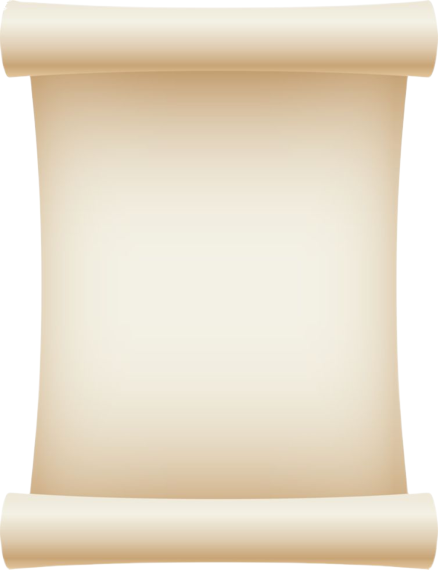
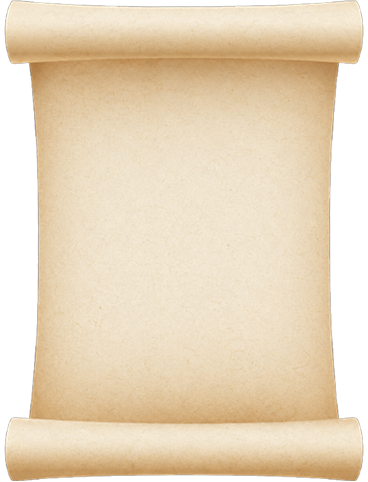
refactor: implement nine-slice resizing for parchment sheet to preserve roll proportions at varying heights

diff --git a/challange-5/Packages/Kultara/Sources/DesignSystem/QuestScroll.swift b/challange-5/Packages/Kultara/Sources/DesignSystem/QuestScroll.swift
@@ -12,9 +12,9 @@ import SwiftUI
 /// real place with real distances, so it is content with a citation (`PlaceSiteMap`), not chrome.
 public enum HisploraScrollArt {
 
-    /// The parchment sheet, `447:1886` — 368 × 478 as drawn, with a rolled bar top and bottom and a
-    /// smooth cream field between them.
-    public static let sheet = PackagedImage(name: "quest-parchment", aspectRatio: 368.0 / 478.0)
+    /// The parchment sheet, `447:1886` — 368 × 482, with a rolled bar top and bottom and a plain
+    /// tan field between them.
+    public static let sheet = PackagedImage(name: "quest-parchment", aspectRatio: 368.0 / 482.0)
 
     /// The flourish `447:1887` rules under the place name — 263 × 9.08, drawn at 4× so it stays crisp
     /// on a 3× screen.
@@ -274,7 +274,7 @@ public struct PackagedImage: Sendable {
 /// The sheet is the *background* of the printed matter rather than a fixed-size image with content
 /// laid over it, which is the same decision `PhotoQuestCard` records: a background cannot make its
 /// parent smaller, so at the largest accessibility sizes the sheet grows to fit the words instead of
-/// the words spilling off the paper (`NFR-A11Y-01`). Reproduced the other way round — a 368 × 478
+/// the words spilling off the paper (`NFR-A11Y-01`). Reproduced the other way round — a 368 × 482
 /// image with an overlay — the instruction runs off the lower roll at the second size above default.
 ///
 /// When the packaged art is missing the sheet falls back to a plain cream panel. A missing decoration
@@ -293,7 +293,7 @@ public struct HisploraParchmentSheet<Content: View>: View {
         content
             .frame(maxWidth: .infinity)
             // The rolled bars at the head and foot are art, not margin: printing into them puts the
-            // first line across a curl. 78 and 74 of the drawn 478, plus the sheet's own 44-point
+            // first line across a curl. 64 and 64 of the drawn 482, plus the sheet's own clear
             // interior margin.
             .padding(.top, HisploraParchmentMetrics.interiorTop)
             .padding(.bottom, HisploraParchmentMetrics.interiorBottom)
@@ -304,9 +304,14 @@ public struct HisploraParchmentSheet<Content: View>: View {
     @ViewBuilder private var sheet: some View {
         if let image = HisploraScrollArt.sheet.image {
             image
-                .resizable()
-                // The rolls have to stay the shape they are drawn; the field between them is a flat
-                // gradient and stretching it is invisible.
+                // **Nine-slice, not a plain stretch, and this was a visible bug.** A plain
+                // `.resizable()` scales the whole picture to the content's height — so a task with a
+                // text field, which is a good deal taller than the art's own 482, drew the head roll
+                // at two and a half times the size it is painted and pushed the foot roll off the
+                // screen with the skip printed across it. The caps hold both rolls at the height they
+                // are drawn whatever the sheet grows to; the field between them is a flat grain and
+                // stretching *that* is invisible.
+                .resizable(capInsets: HisploraParchmentMetrics.rollCaps, resizingMode: .stretch)
                 .accessibilityHidden(true)
         } else {
             RoundedRectangle(cornerRadius: KultaraMetrics.sm)
@@ -316,15 +321,44 @@ public struct HisploraParchmentSheet<Content: View>: View {
     }
 }
 
-/// `447:1886`'s own proportions, in its own 368 × 478 terms.
+/// `447:1886`'s own proportions, in its own 368 × 482 terms.
+///
+/// **These are measured off `quest-parchment.png`'s own alpha, not read off the frame**, the same way
+/// `HisploraMapScrollMetrics` measures the map scroll's rods. A row-by-row scan of the 368 × 482 file
+/// puts the head roll at y 0…63 and the foot roll at 418…482 — the rows whose coverage is the rolls'
+/// full width before the paper's narrower field starts — and the field between them narrows to
+/// x 39…329 at its waist, because the rolls are painted wider than the sheet they hold and the
+/// sheet's sides bow inward.
+///
+/// Replacing the art means re-running that scan. The rolls are held at these heights by
+/// `rollCaps` regardless of how tall the sheet grows, so a cap that does not match the picture cuts
+/// a roll in half rather than merely mis-margining the text.
 public enum HisploraParchmentMetrics {
-    /// The sheet's head roll runs to y ≈ 78 of 478, and `447:1906` prints the place name at 107 —
-    /// which on a sheet starting at 190 is 29 points of clear paper under the roll.
-    public static let interiorTop: CGFloat = 107
-    /// The foot roll starts at y ≈ 404 of 478, and the drawn content ends well above it.
-    public static let interiorBottom: CGFloat = 96
-    /// `447:1895` runs x = 65…336 on a sheet spanning 17…385, so 48 in on each side.
-    public static let interiorSide: CGFloat = 48
+    /// The two rolls, at the height they are painted. Leading and trailing are zero: the sheet is
+    /// drawn within a few points of the art's own 368 wide, so the horizontal stretch is invisible,
+    /// and a horizontal cap would pin the rolls' rounded ends against a field that no longer met
+    /// them.
+    public static let rollCaps = EdgeInsets(top: rollHeadHeight,
+                                            leading: 0,
+                                            bottom: rollFootHeight,
+                                            trailing: 0)
+
+    /// The head roll runs y 0…63 of the art's own 482.
+    public static let rollHeadHeight: CGFloat = 64
+    /// The foot roll starts at y 418, so it is the same 64 deep.
+    public static let rollFootHeight: CGFloat = 64
+
+    /// Clear paper under the head roll before the place name starts — `447:1906`'s 29, rounded to
+    /// the 30 the new art's softer roll edge wants.
+    public static let interiorTop: CGFloat = rollHeadHeight + 24
+    /// The same, above the foot roll. Slightly tighter than the head because the foot carries a
+    /// control rather than a masthead.
+    public static let interiorBottom: CGFloat = rollFootHeight + 20
+    /// The paper narrows to x 39…329 of 368 at its waist, so the ink has to clear 39 before it
+    /// clears anything else — measured at the *narrowest* row rather than at the rolls, or a line
+    /// set against the sheet's widest point runs off its bowed side halfway down. 56 leaves 17
+    /// points of paper inside each edge there.
+    public static let interiorSide: CGFloat = 56
 }
 
 /// The flourish under the place name (`447:1887`), or nothing when the art is missing.

diff --git a/challange-5/Packages/Kultara/Sources/DesignSystem/ScrollUnseal.swift b/challange-5/Packages/Kultara/Sources/DesignSystem/ScrollUnseal.swift
@@ -130,7 +130,7 @@ public struct HisploraParchmentUnroll: View, Animatable {
 
     /// **It fills the frame it is given rather than keeping the art's aspect**, which is what
     /// `HisploraParchmentSheet` does with the same picture as a background. The caller is unrolling
-    /// *into* a sheet whose height is its own words', so a picture that insisted on 368 × 478 would
+    /// *into* a sheet whose height is its own words', so a picture that insisted on 368 × 482 would
     /// land at the wrong height however carefully the caller placed it.
     public var body: some View {
         GeometryReader { proxy in
@@ -143,7 +143,12 @@ public struct HisploraParchmentUnroll: View, Animatable {
         if let image = HisploraScrollArt.sheet.image {
             if open >= 1 {
                 image
-                    .resizable()
+                    // The same nine-slice `HisploraParchmentSheet` settles into, and it has to be:
+                    // this unrolls into a box the height of the task's own words, which is well past
+                    // the art's 482, so a plain stretch here would hand over to a screen whose rolls
+                    // are a third the size and the page would visibly snap at the seam.
+                    .resizable(capInsets: HisploraParchmentMetrics.rollCaps,
+                               resizingMode: .stretch)
                     .accessibilityHidden(true)
             } else {
                 unrolling(image, in: size)
@@ -155,10 +160,16 @@ public struct HisploraParchmentUnroll: View, Animatable {
         }
     }
 
+    /// **The rolls are absolute, not fractions of the box.** They were fractions while the sheet was
+    /// a plain stretch and both ends grew together; now that the settled sheet pins them
+    /// (`HisploraParchmentMetrics.rollCaps`), a roll that is a fraction of a 700-point box opens at
+    /// nearly a hundred points and hands over to one drawn at sixty-four.
+    /// `HisploraParchmentUnrollMetrics` still records where they sit in the *file*, which is what the
+    /// guard scans; this is where they sit on the *screen*.
     private func unrolling(_ image: Image, in size: CGSize) -> some View {
-        let top = size.height * HisploraParchmentUnrollMetrics.topRollHeight
-        let bottom = size.height * HisploraParchmentUnrollMetrics.bottomRollHeight
-        let paper = size.height * HisploraParchmentUnrollMetrics.sheetHeight
+        let top = HisploraParchmentMetrics.rollHeadHeight
+        let bottom = HisploraParchmentMetrics.rollFootHeight
+        let paper = max(0, size.height - top - bottom)
         return VStack(spacing: 0) {
             slice(image, in: size, from: 0, height: top)
             slice(image, in: size, from: top, height: paper)
@@ -173,10 +184,11 @@ public struct HisploraParchmentUnroll: View, Animatable {
         .accessibilityHidden(true)
     }
 
-    /// One horizontal band of the asset, drawn at the size the whole asset would be drawn at.
+    /// One horizontal band of the asset, drawn at the size the whole asset would be drawn at — and
+    /// nine-sliced there, so the band a roll is cut from is the roll at the height it settles to.
     private func slice(_ image: Image, in size: CGSize, from y: CGFloat, height: CGFloat) -> some View {
         image
-            .resizable()
+            .resizable(capInsets: HisploraParchmentMetrics.rollCaps, resizingMode: .stretch)
             .frame(width: size.width, height: size.height)
             .offset(y: -y)
             .frame(width: size.width, height: height, alignment: .top)
@@ -186,14 +198,19 @@ public struct HisploraParchmentUnroll: View, Animatable {
 
 /// Where the two rolls end in `quest-parchment.png`, in fractions of its own height.
 ///
-/// Measured off the file's alpha rather than read off the frame: a row-by-row scan of the 438 × 570
-/// export puts the head roll at y 0…79 and the foot roll at 494…570 — the rows that run the picture's
+/// Measured off the file's alpha rather than read off the frame: a row-by-row scan of the 368 × 482
+/// file puts the head roll at y 0…63 and the foot roll at 418…482 — the rows that run the picture's
 /// full width, before the sheet's bowed sides start narrowing it. `HisploraParchmentMetrics`'s own
-/// numbers are *print* margins in the drawn 368 × 478 space and are a different measurement of a
+/// numbers are *print* margins in the same 368 × 482 space and are a different measurement of a
 /// different thing; they are not interchangeable with these.
+///
+/// **These describe the file, not the screen.** The drawing takes its roll heights from
+/// `HisploraParchmentMetrics.rollHeadHeight`/`rollFootHeight` — the same points the nine-slice pins
+/// them to — and these fractions are what the guard scans the shipped bytes against, so a re-export
+/// cropped differently fails there rather than cutting a roll in half on device.
 public enum HisploraParchmentUnrollMetrics {
-    public static let topRollHeight: CGFloat = 79.0 / 570.0
-    public static let bottomRollHeight: CGFloat = 76.0 / 570.0
+    public static let topRollHeight: CGFloat = 64.0 / 482.0
+    public static let bottomRollHeight: CGFloat = 64.0 / 482.0
     /// What is left between the rolls, and therefore the only part the opening stretches.
     public static let sheetHeight: CGFloat = 1 - topRollHeight - bottomRollHeight
 

diff --git a/challange-5/Packages/Kultara/Tests/DesignSystemTests/QuestStampTests.swift b/challange-5/Packages/Kultara/Tests/DesignSystemTests/QuestStampTests.swift
@@ -148,11 +148,27 @@ struct QuestScrollArtTests {
     /// The parchment's interior margins have to leave the rolled bars alone: printing into them puts
     /// the first line across a curl.
     @Test func theSheetsInteriorClearsBothRolls() {
-        // The head roll runs to y ≈ 78 of the drawn 478 and the foot roll starts at y ≈ 404.
-        #expect(HisploraParchmentMetrics.interiorTop > 78)
-        #expect(HisploraParchmentMetrics.interiorBottom > 478 - 404)
-        // And the side margins are inside the sheet's own 368 width.
+        // The head roll runs to y = 63 of the drawn 482 and the foot roll starts at y = 418, and the
+        // nine-slice holds both at exactly that height however tall the sheet grows — so clearing
+        // them is a fixed inset now rather than one that has to survive a stretch.
+        #expect(HisploraParchmentMetrics.interiorTop > HisploraParchmentMetrics.rollHeadHeight)
+        #expect(HisploraParchmentMetrics.interiorBottom > HisploraParchmentMetrics.rollFootHeight)
+        // The paper narrows to x 39…329 of the art's 368 at its waist, so the ink has to clear 39
+        // a side — the narrowest row, not the widest.
+        #expect(HisploraParchmentMetrics.interiorSide > 39)
         #expect(HisploraParchmentMetrics.interiorSide * 2 < 368)
+    }
+
+    /// The caps are the rolls, and nothing horizontal — a leading or trailing cap would pin the
+    /// rolls' rounded ends against a field that no longer met them.
+    @Test func theCapsPinTheRollsAndOnlyTheRolls() {
+        #expect(HisploraParchmentMetrics.rollCaps.top == HisploraParchmentMetrics.rollHeadHeight)
+        #expect(HisploraParchmentMetrics.rollCaps.bottom == HisploraParchmentMetrics.rollFootHeight)
+        #expect(HisploraParchmentMetrics.rollCaps.leading == 0)
+        #expect(HisploraParchmentMetrics.rollCaps.trailing == 0)
+        // Both rolls together are a fraction of the art, or a short task has no paper between them.
+        #expect(HisploraParchmentMetrics.rollHeadHeight
+            + HisploraParchmentMetrics.rollFootHeight < 482 / 2)
     }
 
     @Test func theMapHintKeepsTheFramesTilt() {

diff --git a/challange-5/challange-5/Features/QuestRun/TaskDetailScreen.swift b/challange-5/challange-5/Features/QuestRun/TaskDetailScreen.swift
@@ -216,8 +216,12 @@ struct TaskDetailScreen: View {
                     .foregroundStyle(palette.inkBody.color)
                     .multilineTextAlignment(.center)
                     .fixedSize(horizontal: false, vertical: true)
-                // 521 − 449: the action sits 72 under the instruction.
-                Spacer(minLength: 72)
+                // 521 − 449: the action sits 72 under the instruction. That is the gap the frame
+                // draws under a *photo* task, whose whole foot is one pill — a written task puts a
+                // three-line field, a save and a skip below this point, and keeping 72 there grew
+                // the sheet past the viewport and printed the skip across the foot roll. The written
+                // case takes half.
+                Spacer(minLength: task.type == .photo || resolution != nil ? 72 : 20)
                 answerSection
             }
             .frame(maxWidth: .infinity)

diff --git a/challange-5/challange-5/Features/QuestRun/TaskSheetLayout.swift b/challange-5/challange-5/Features/QuestRun/TaskSheetLayout.swift
@@ -25,10 +25,13 @@ enum TaskSheetLayout {
 
     /// The determinate bar the frame draws 4 points tall, in a row padded 20 above and below.
     static let progressBarHeight: CGFloat = 4
-    static let progressBarPadding: CGFloat = 20
+    static let progressBarPadding: CGFloat = 14
 
-    /// The sheet is drawn at y = 190, 62 under the bar's box.
-    static let sheetTop: CGFloat = 62
+    /// The sheet is drawn at y = 190, 62 under the bar's box. Held at 44 rather than the frame's 62:
+    /// the frame draws a photo task, whose sheet is one pill deep, and a written task's field, save
+    /// and skip need those points back or the sheet runs past the foot of the screen with the map
+    /// hint printed across its lower roll.
+    static let sheetTop: CGFloat = 44
 
     /// How far the sheet's head roll stands below the top of the safe area — the number the
     /// transition screen has to land its unrolled parchment on.
